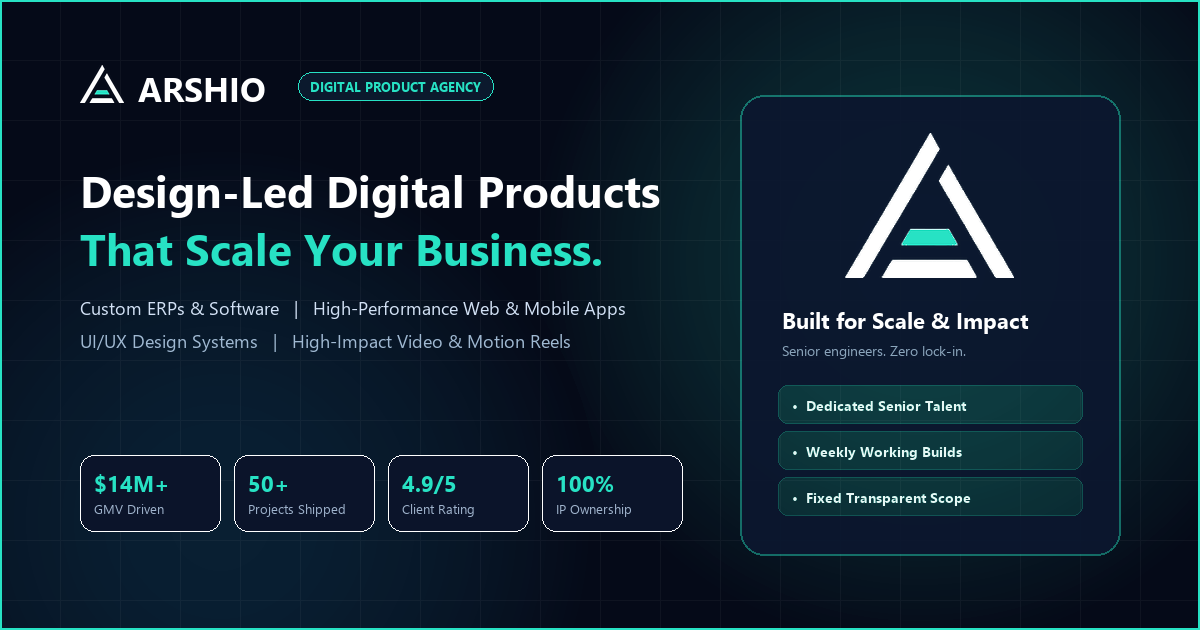
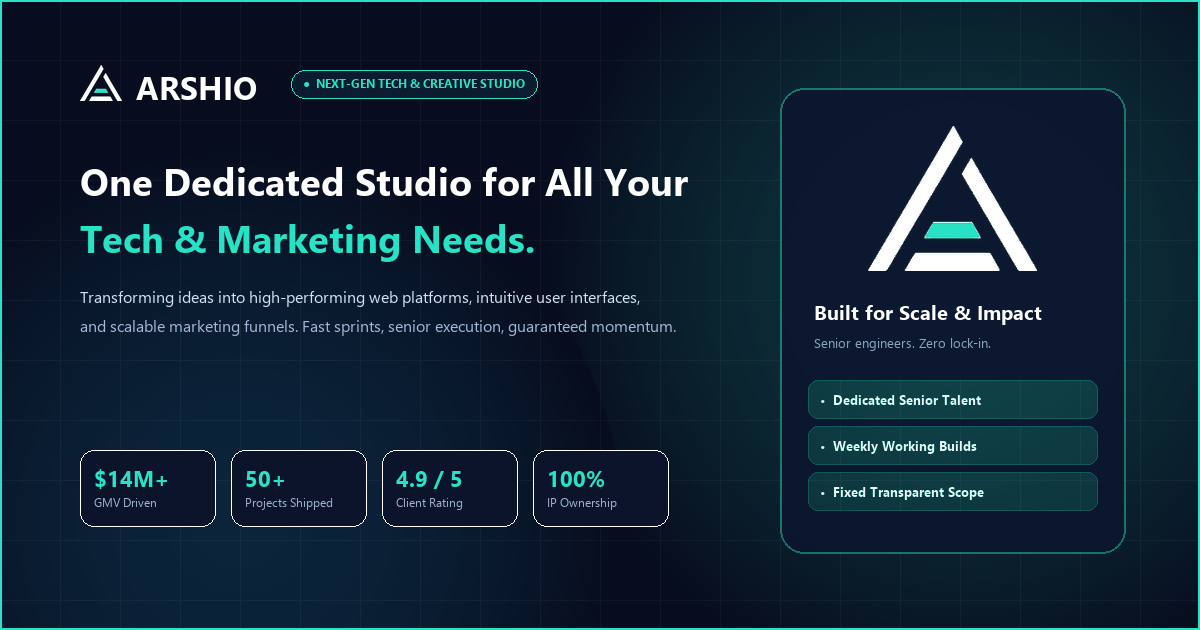
feat(seo): sync og-image and metadata with exact hero section copy and badge

diff --git a/src/routes/__root.tsx b/src/routes/__root.tsx
@@ -76,40 +76,40 @@ export const Route = createRootRouteWithContext<{ queryClient: QueryClient }>()(
     meta: [
       { charSet: "utf-8" },
       { name: "viewport", content: "width=device-width, initial-scale=1" },
-      { title: "Arshio — Design-Led Digital Products That Scale Your Business" },
-      { name: "description", content: "Arshio is an elite digital product agency building custom ERPs, high-converting web apps, mobile apps, UI/UX design systems, and motion reels. Senior talent, zero lock-in, real ROI." },
+      { title: "Arshio — One Dedicated Studio for All Your Tech & Marketing Needs" },
+      { name: "description", content: "Transforming ideas into high-performing web platforms, intuitive user interfaces, and scalable marketing funnels. Fast sprints, senior execution, guaranteed momentum." },
       { name: "keywords", content: "digital agency, custom software development, ERP development, UI/UX design, web app development, mobile app development, motion graphics, video editing, branding agency, Arshio" },
       { name: "author", content: "Arshio Digital Agency" },
       { name: "robots", content: "index, follow, max-image-preview:large, max-snippet:-1, max-video-preview:-1" },
       { property: "og:type", content: "website" },
       { property: "og:site_name", content: "Arshio Digital Agency" },
-      { property: "og:title", content: "Arshio — Design-Led Digital Products That Scale Your Business" },
-      { property: "og:description", content: "Custom ERPs & Software, High-Performance Web & Mobile Apps, UI/UX Design Systems, and High-Impact Motion Reels. Senior talent, zero lock-in, real ROI." },
+      { property: "og:title", content: "Arshio — One Dedicated Studio for All Your Tech & Marketing Needs" },
+      { property: "og:description", content: "Transforming ideas into high-performing web platforms, intuitive user interfaces, and scalable marketing funnels. Fast sprints, senior execution, guaranteed momentum." },
       { property: "og:url", content: "https://arshio.vercel.app/" },
-      { property: "og:image", content: "https://arshio.vercel.app/og-image.png?v=2" },
-      { property: "og:image:secure_url", content: "https://arshio.vercel.app/og-image.png?v=2" },
+      { property: "og:image", content: "https://arshio.vercel.app/og-image.png?v=3" },
+      { property: "og:image:secure_url", content: "https://arshio.vercel.app/og-image.png?v=3" },
       { property: "og:image:type", content: "image/png" },
       { property: "og:image:width", content: "1200" },
       { property: "og:image:height", content: "630" },
-      { property: "og:image:alt", content: "Arshio Digital Agency — High-Performance Software, Design & Growth" },
+      { property: "og:image:alt", content: "Arshio — One Dedicated Studio for All Your Tech & Marketing Needs" },
       { property: "og:locale", content: "en_US" },
       { name: "twitter:card", content: "summary_large_image" },
       { name: "twitter:site", content: "@arshioagency" },
       { name: "twitter:creator", content: "@arshioagency" },
-      { name: "twitter:title", content: "Arshio — Design-Led Digital Products That Scale Your Business" },
-      { name: "twitter:description", content: "Custom ERPs & Software, High-Performance Web & Mobile Apps, UI/UX Design Systems, and High-Impact Motion Reels. Senior talent, zero lock-in, real ROI." },
-      { name: "twitter:image", content: "https://arshio.vercel.app/og-image.png?v=2" },
-      { name: "twitter:image:alt", content: "Arshio Digital Agency — High-Performance Software, Design & Growth" },
+      { name: "twitter:title", content: "Arshio — One Dedicated Studio for All Your Tech & Marketing Needs" },
+      { name: "twitter:description", content: "Transforming ideas into high-performing web platforms, intuitive user interfaces, and scalable marketing funnels. Fast sprints, senior execution, guaranteed momentum." },
+      { name: "twitter:image", content: "https://arshio.vercel.app/og-image.png?v=3" },
+      { name: "twitter:image:alt", content: "Arshio — One Dedicated Studio for All Your Tech & Marketing Needs" },
       { name: "theme-color", content: "#050A18" },
     ],
     links: [
       { rel: "canonical", href: "https://arshio.vercel.app/" },
       { rel: "stylesheet", href: appCss },
-      { rel: "icon", type: "image/png", sizes: "32x32", href: "/favicon-32x32.png?v=2" },
-      { rel: "icon", type: "image/png", sizes: "16x16", href: "/favicon-16x16.png?v=2" },
-      { rel: "icon", type: "image/png", sizes: "512x512", href: "/favicon.png?v=2" },
-      { rel: "apple-touch-icon", sizes: "180x180", href: "/apple-touch-icon.png?v=2" },
-      { rel: "shortcut icon", href: "/favicon.ico?v=2" },
+      { rel: "icon", type: "image/png", sizes: "32x32", href: "/favicon-32x32.png?v=3" },
+      { rel: "icon", type: "image/png", sizes: "16x16", href: "/favicon-16x16.png?v=3" },
+      { rel: "icon", type: "image/png", sizes: "512x512", href: "/favicon.png?v=3" },
+      { rel: "apple-touch-icon", sizes: "180x180", href: "/apple-touch-icon.png?v=3" },
+      { rel: "shortcut icon", href: "/favicon.ico?v=3" },
       { rel: "manifest", href: "/site.webmanifest" },
       { rel: "preconnect", href: "https://fonts.googleapis.com" },
       { rel: "preconnect", href: "https://fonts.gstatic.com", crossOrigin: "anonymous" },

diff --git a/index.html b/index.html
@@ -5,8 +5,8 @@
     <meta name="viewport" content="width=device-width, initial-scale=1.0" />
     
     <!-- Primary Page Metadata -->
-    <title>Arshio — Design-Led Digital Products That Scale Your Business</title>
-    <meta name="description" content="Arshio is an elite digital product agency building custom ERPs, high-converting web apps, mobile apps, UI/UX design systems, and motion reels. Senior talent, zero lock-in, real ROI." />
+    <title>Arshio — One Dedicated Studio for All Your Tech & Marketing Needs</title>
+    <meta name="description" content="Transforming ideas into high-performing web platforms, intuitive user interfaces, and scalable marketing funnels. Fast sprints, senior execution, guaranteed momentum." />
     <meta name="keywords" content="digital agency, custom software development, ERP development, UI/UX design, web app development, mobile app development, motion graphics, video editing, branding agency, Arshio" />
     <meta name="author" content="Arshio Digital Agency" />
     <meta name="robots" content="index, follow, max-image-preview:large, max-snippet:-1, max-video-preview:-1" />
@@ -17,14 +17,14 @@
     <meta property="og:type" content="website" />
     <meta property="og:url" content="https://arshio.vercel.app/" />
     <meta property="og:site_name" content="Arshio Digital Agency" />
-    <meta property="og:title" content="Arshio — Design-Led Digital Products That Scale Your Business" />
-    <meta property="og:description" content="Custom ERPs & Software, High-Performance Web & Mobile Apps, UI/UX Design Systems, and High-Impact Motion Reels. Senior talent, zero lock-in, real ROI." />
-    <meta property="og:image" content="https://arshio.vercel.app/og-image.png?v=2" />
-    <meta property="og:image:secure_url" content="https://arshio.vercel.app/og-image.png?v=2" />
+    <meta property="og:title" content="Arshio — One Dedicated Studio for All Your Tech & Marketing Needs" />
+    <meta property="og:description" content="Transforming ideas into high-performing web platforms, intuitive user interfaces, and scalable marketing funnels. Fast sprints, senior execution, guaranteed momentum." />
+    <meta property="og:image" content="https://arshio.vercel.app/og-image.png?v=3" />
+    <meta property="og:image:secure_url" content="https://arshio.vercel.app/og-image.png?v=3" />
     <meta property="og:image:type" content="image/png" />
     <meta property="og:image:width" content="1200" />
     <meta property="og:image:height" content="630" />
-    <meta property="og:image:alt" content="Arshio Digital Agency — High-Performance Software, Design & Growth" />
+    <meta property="og:image:alt" content="Arshio — One Dedicated Studio for All Your Tech & Marketing Needs" />
     <meta property="og:locale" content="en_US" />
 
     <!-- Twitter / X -->
@@ -32,10 +32,10 @@
     <meta name="twitter:url" content="https://arshio.vercel.app/" />
     <meta name="twitter:site" content="@arshioagency" />
     <meta name="twitter:creator" content="@arshioagency" />
-    <meta name="twitter:title" content="Arshio — Design-Led Digital Products That Scale Your Business" />
-    <meta name="twitter:description" content="Custom ERPs & Software, High-Performance Web & Mobile Apps, UI/UX Design Systems, and High-Impact Motion Reels. Senior talent, zero lock-in, real ROI." />
-    <meta name="twitter:image" content="https://arshio.vercel.app/og-image.png?v=2" />
-    <meta name="twitter:image:alt" content="Arshio Digital Agency — High-Performance Software, Design & Growth" />
+    <meta name="twitter:title" content="Arshio — One Dedicated Studio for All Your Tech & Marketing Needs" />
+    <meta name="twitter:description" content="Transforming ideas into high-performing web platforms, intuitive user interfaces, and scalable marketing funnels. Fast sprints, senior execution, guaranteed momentum." />
+    <meta name="twitter:image" content="https://arshio.vercel.app/og-image.png?v=3" />
+    <meta name="twitter:image:alt" content="Arshio — One Dedicated Studio for All Your Tech & Marketing Needs" />
 
     <!-- Mobile & PWA Theme -->
     <meta name="theme-color" content="#050A18" />
@@ -45,11 +45,11 @@
     <link rel="manifest" href="/site.webmanifest" />
 
     <!-- Favicons & App Icons -->
-    <link rel="icon" type="image/png" sizes="32x32" href="/favicon-32x32.png?v=2" />
-    <link rel="icon" type="image/png" sizes="16x16" href="/favicon-16x16.png?v=2" />
-    <link rel="icon" type="image/png" sizes="512x512" href="/favicon.png?v=2" />
-    <link rel="apple-touch-icon" sizes="180x180" href="/apple-touch-icon.png?v=2" />
-    <link rel="shortcut icon" href="/favicon.ico?v=2" />
+    <link rel="icon" type="image/png" sizes="32x32" href="/favicon-32x32.png?v=3" />
+    <link rel="icon" type="image/png" sizes="16x16" href="/favicon-16x16.png?v=3" />
+    <link rel="icon" type="image/png" sizes="512x512" href="/favicon.png?v=3" />
+    <link rel="apple-touch-icon" sizes="180x180" href="/apple-touch-icon.png?v=3" />
+    <link rel="shortcut icon" href="/favicon.ico?v=3" />
 
     <!-- Caching Headers -->
     <meta http-equiv="Cache-Control" content="no-cache, no-store, must-revalidate" />

diff --git a/scripts/generate_og_assets.py b/scripts/generate_og_assets.py
@@ -1,34 +1,51 @@
 import os
 from PIL import Image, ImageDraw, ImageFont
 
-def generate_all():
-    W, H = 1200, 630
+def get_white_monogram():
+    orig = Image.open('public/arshio-logo-original.png')
+    content = orig.crop((230, 192, 817, 367))
+    monogram = content.crop((0, 0, 203, content.height))
+    bbox = monogram.getbbox()
+    cropped = monogram.crop(bbox).convert('RGBA')
     
-    # Load white monogram
-    mono = Image.open('public/test-white-mono.png')
+    w, h = cropped.size
+    white_mono = Image.new('RGBA', (w, h), (0, 0, 0, 0))
+    for y in range(h):
+        for x in range(w):
+            r, g, b, a = cropped.getpixel((x, y))
+            if a > 0:
+                if g > 140 and b > 140 and r < 100:
+                    white_mono.putpixel((x, y), (39, 226, 196, a))
+                else:
+                    white_mono.putpixel((x, y), (255, 255, 255, a))
+    return white_mono
+
+def generate_og_image():
+    W, H = 1200, 630
+    mono = get_white_monogram()
 
     # 1. Base Dark Canvas
-    canvas = Image.new('RGBA', (W, H), (5, 10, 24, 255)) # #050A18
+    canvas = Image.new('RGBA', (W, H), (7, 13, 30, 255)) # #070D1E
 
     # 2. Ambient Glows
     glow = Image.new('RGBA', (W, H), (0, 0, 0, 0))
     dglow = ImageDraw.Draw(glow)
 
     # Teal glow around card on right
-    cx1, cy1, r1 = 920, 260, 390
+    cx1, cy1, r1 = 960, 280, 420
     for r in range(r1, 0, -6):
         alpha = int(45 * (1.0 - (r / r1)**1.8))
         dglow.ellipse([(cx1 - r, cy1 - r), (cx1 + r, cy1 + r)], fill=(39, 226, 196, alpha))
 
-    # Cyan/Indigo glow at bottom left
-    cx2, cy2, r2 = 220, 520, 380
+    # Cyan glow at bottom left
+    cx2, cy2, r2 = 240, 520, 380
     for r in range(r2, 0, -6):
-        alpha = int(32 * (1.0 - (r / r2)**1.8))
+        alpha = int(35 * (1.0 - (r / r2)**1.8))
         dglow.ellipse([(cx2 - r, cy2 - r), (cx2 + r, cy2 + r)], fill=(34, 184, 240, alpha))
 
     canvas = Image.alpha_composite(canvas, glow)
 
-    # 3. Subtle Grid Lines
+    # 3. Modern Grid Pattern
     grid = Image.new('RGBA', (W, H), (0, 0, 0, 0))
     dgrid = ImageDraw.Draw(grid)
     for x in range(0, W, 60):
@@ -38,65 +55,69 @@ def generate_all():
     canvas = Image.alpha_composite(canvas, grid)
 
     # 4. Fonts
-    font_brand = ImageFont.truetype('segoeuib.ttf', 34)
-    font_badge = ImageFont.truetype('segoeuib.ttf', 13)
-    font_h1 = ImageFont.truetype('segoeuib.ttf', 44)
-    font_sub = ImageFont.truetype('segoeui.ttf', 18)
+    font_brand = ImageFont.truetype('segoeuib.ttf', 32)
+    font_badge = ImageFont.truetype('segoeuib.ttf', 12)
+    font_h1 = ImageFont.truetype('segoeuib.ttf', 38)
+    font_sub = ImageFont.truetype('segoeui.ttf', 16)
     font_stat_val = ImageFont.truetype('segoeuib.ttf', 22)
-    font_stat_lbl = ImageFont.truetype('segoeui.ttf', 13)
-    font_card_head = ImageFont.truetype('segoeuib.ttf', 22)
-    font_card_sub = ImageFont.truetype('segoeui.ttf', 14)
-    font_pill = ImageFont.truetype('segoeuib.ttf', 14)
+    font_stat_lbl = ImageFont.truetype('segoeui.ttf', 12)
+    font_card_head = ImageFont.truetype('segoeuib.ttf', 20)
+    font_card_sub = ImageFont.truetype('segoeui.ttf', 13)
+    font_pill = ImageFont.truetype('segoeuib.ttf', 13)
 
     d = ImageDraw.Draw(canvas)
 
-    # 5. Top Brand Bar: Monogram + Name + Badge
-    mono_h = 38
+    # Safe Left Margin: 80px
+    margin_x = 80
+
+    # 5. Top Brand Bar: Logo + Name + NEXT-GEN Pill Badge
+    mono_h = 36
     mono_w = int(mono_h * (mono.width / mono.height))
     scaled_mono = mono.resize((mono_w, mono_h), Image.Resampling.LANCZOS)
-    canvas.paste(scaled_mono, (80, 65), scaled_mono)
+    canvas.paste(scaled_mono, (margin_x, 65), scaled_mono)
 
-    d.text((80 + mono_w + 14, 65), 'ARSHIO', fill=(255, 255, 255, 255), font=font_brand)
+    d.text((margin_x + mono_w + 14, 65), 'ARSHIO', fill=(255, 255, 255, 255), font=font_brand)
 
-    badge_text = 'DIGITAL PRODUCT AGENCY'
+    # Exact Hero Badge: "● NEXT-GEN TECH & CREATIVE STUDIO"
+    badge_text = '●  NEXT-GEN TECH & CREATIVE STUDIO'
     badge_bbox = d.textbbox((0, 0), badge_text, font=font_badge)
     bw = badge_bbox[2] - badge_bbox[0] + 24
     bh = 28
-    bx = 80 + mono_w + 14 + 160
-    by = 72
-    d.rounded_rectangle([(bx, by), (bx + bw, by + bh)], radius=14, fill=(11, 25, 45, 255), outline=(39, 226, 196, 180), width=1)
+    bx = margin_x + mono_w + 14 + 155
+    by = 70
+    d.rounded_rectangle([(bx, by), (bx + bw, by + bh)], radius=14, fill=(11, 28, 48, 255), outline=(39, 226, 196, 180), width=1)
     d.text((bx + 12, by + 5), badge_text, fill=(39, 226, 196, 255), font=font_badge)
 
-    # Main Headline
-    d.text((80, 160), 'Design-Led Digital Products', fill=(255, 255, 255, 255), font=font_h1)
-    d.text((80, 218), 'That Scale Your Business.', fill=(39, 226, 196, 255), font=font_h1)
+    # 6. EXACT HERO HEADLINE (Clean 2 lines)
+    d.text((margin_x, 155), 'One Dedicated Studio for All Your', fill=(255, 255, 255, 255), font=font_h1)
+    d.text((margin_x, 212), 'Tech & Marketing Needs.', fill=(39, 226, 196, 255), font=font_h1)
 
-    # Subtitle / Capabilities
-    d.text((80, 295), 'Custom ERPs & Software   |   High-Performance Web & Mobile Apps', fill=(210, 225, 245, 240), font=font_sub)
-    d.text((80, 328), 'UI/UX Design Systems   |   High-Impact Video & Motion Reels', fill=(160, 185, 210, 220), font=font_sub)
+    # 7. EXACT HERO SUBTITLE (Clean 2 lines)
+    d.text((margin_x, 285), 'Transforming ideas into high-performing web platforms, intuitive user interfaces,', fill=(210, 225, 245, 240), font=font_sub)
+    d.text((margin_x, 314), 'and scalable marketing funnels. Fast sprints, senior execution, guaranteed momentum.', fill=(160, 185, 215, 220), font=font_sub)
 
-    # Bottom Stats (4 balanced cards that fit cleanly before card on right)
+    # 8. Bottom Stats Cards (Clean 4 cards)
     stats = [
         ('$14M+', 'GMV Driven'),
         ('50+', 'Projects Shipped'),
-        ('4.9/5', 'Client Rating'),
+        ('4.9 / 5', 'Client Rating'),
         ('100%', 'IP Ownership')
     ]
 
-    sx = 80
-    sy = 455
-    sw = 140
+    sx = margin_x
+    sy = 450
+    sw = 135
     sh = 76
     for val, lbl in stats:
         d.rounded_rectangle([(sx, sy), (sx + sw, sy + sh)], radius=14, fill=(11, 20, 42, 220), outline=(255, 255, 255, 30), width=1)
         d.text((sx + 14, sy + 13), val, fill=(39, 226, 196, 255), font=font_stat_val)
         d.text((sx + 14, sy + 44), lbl, fill=(160, 180, 205, 200), font=font_stat_lbl)
-        sx += sw + 14
+        sx += sw + 16
 
-    # 6. Right Side Visual Showcase Card (Glassmorphism Card)
+    # 9. Right Side Visual Showcase Card (Glassmorphism Card)
     card_layer = Image.new('RGBA', (W, H), (0, 0, 0, 0))
     dcard = ImageDraw.Draw(card_layer)
-    cx, cy, cw, ch = 740, 95, 380, 460
+    cx, cy, cw, ch = 780, 88, 345, 465
 
     # Glass card background with border
     dcard.rounded_rectangle([(cx, cy), (cx + cw, cy + ch)], radius=24, fill=(11, 22, 46, 235), outline=(39, 226, 196, 110), width=2)
@@ -108,8 +129,8 @@ def generate_all():
     card_layer.paste(c_scaled_mono, (cx + (cw - c_mono_w)//2, cy + 38), c_scaled_mono)
 
     # Card text
-    dcard.text((cx + 42, cy + 210), 'Built for Scale & Impact', fill=(255, 255, 255, 255), font=font_card_head)
-    dcard.text((cx + 42, cy + 245), 'Senior engineers. Zero lock-in.', fill=(160, 185, 210, 220), font=font_card_sub)
+    dcard.text((cx + 34, cy + 210), 'Built for Scale & Impact', fill=(255, 255, 255, 255), font=font_card_head)
+    dcard.text((cx + 34, cy + 245), 'Senior engineers. Zero lock-in.', fill=(160, 185, 210, 220), font=font_card_sub)
 
     # 3 Feature Pills
     pills = [
@@ -117,10 +138,10 @@ def generate_all():
         '•  Weekly Working Builds',
         '•  Fixed Transparent Scope'
     ]
-    py = cy + 290
+    py = cy + 292
     for p in pills:
-        dcard.rounded_rectangle([(cx + 38, py), (cx + cw - 38, py + 38)], radius=10, fill=(39, 226, 196, 25), outline=(39, 226, 196, 70), width=1)
-        dcard.text((cx + 52, py + 10), p, fill=(240, 255, 252, 245), font=font_pill)
+        dcard.rounded_rectangle([(cx + 28, py), (cx + cw - 28, py + 38)], radius=10, fill=(39, 226, 196, 25), outline=(39, 226, 196, 70), width=1)
+        dcard.text((cx + 40, py + 10), p, fill=(240, 255, 252, 245), font=font_pill)
         py += 46
 
     canvas = Image.alpha_composite(canvas, card_layer)
@@ -130,7 +151,7 @@ def generate_all():
     d_final.rectangle([(0, 0), (W-1, H-1)], outline=(39, 226, 196, 80), width=2)
 
     canvas.convert('RGB').save('public/og-image.png', 'PNG', quality=95)
-    print('Generated public/og-image.png successfully!')
+    print('Generated updated public/og-image.png successfully!')
 
 if __name__ == '__main__':
-    generate_all()
+    generate_og_image()
